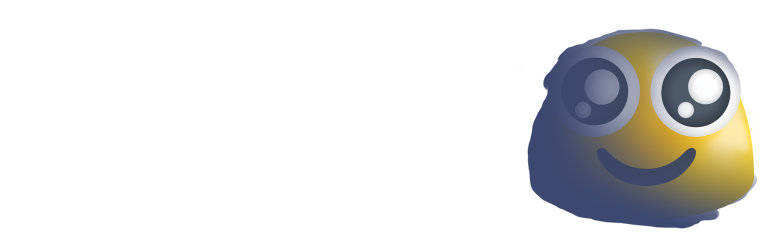
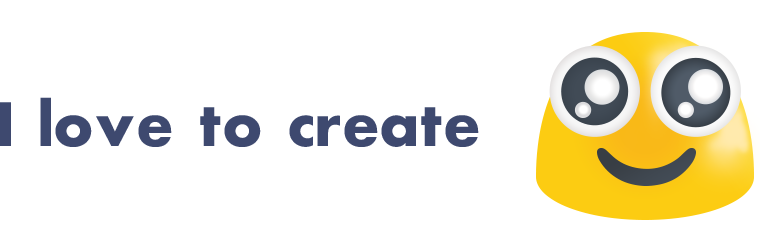
changed color

Changed region(s): [[0.6961, 0.112, 0.9987, 0.924], [0.0, 0.392, 0.6355, 0.588]]

diff --git a/src/scss/base.scss b/src/scss/base.scss
@@ -109,8 +109,10 @@ background-color: rgba(255, 255, 255, .3);
 .contents {
   // background: #43465a;
   margin-top: $global-margin / 2;
-  background: rgba($primary-color, 1);
-  color: rgba($color: #ffffff, $alpha: 1);
+  // background: rgba($primary-color, 1);
+  background: #fff;
+  color: $primary-color;
+  // color: rgba($color: #ffffff, $alpha: 1);
   position: fixed;
   left: 0;
   line-height: 2rem;
@@ -148,13 +150,13 @@ background-color: rgba(255, 255, 255, .3);
     position: absolute;
     -webkit-transform: translateX(0);
     transform: translateX(0);
-    bottom: 70px;
+    bottom: 80px;
     right: 0px;
     font-size: .7rem;
     writing-mode: vertical-rl;
-    padding: 25px 5px;
-    background: #fff;
-    color: #43465a;
+    padding: 35px 10px;
+    background: $primary-color;
+    color: #fff;
     cursor: pointer;
   }
   // paragraph
@@ -173,6 +175,7 @@ background-color: rgba(255, 255, 255, .3);
     li {
       background: url(../images/list_box.png) no-repeat;
       float: left;
+      color: #fff;
       font-size: .7rem;
       text-align: center;
       line-height: 1.4rem;
@@ -224,17 +227,17 @@ background-color: rgba(255, 255, 255, .3);
   &:before {
     font-family: 'Sanchez', serif;
     font-size: 1rem;
-    color: rgba($color: #fff, $alpha: .1);
+    color: rgba($color: $primary-color, $alpha: .1);
     line-height: 1.6rem;
     content: '\201C';
     position: absolute;
     top: 0.25em;
     left: 0.15em;
     font-size: 5em;
-   }
+  }
   &:after {
     font-family: 'Sanchez', serif;
-    color: rgba($color: #fff, $alpha: .1);
+    color: rgba($color: $primary-color, $alpha: .1);
     content: '\201D';
     position: absolute;
     bottom: -15px;
@@ -244,9 +247,8 @@ background-color: rgba(255, 255, 255, .3);
   }
   footer {
     margin-top: 15px;
-    font-family: 'Noto Sans', sans-serif;
-    font-size: .8em;
-    font-weight: 700;
+    font-size: .8rem;
+    font-style: italic;
   }
 }
 
@@ -294,5 +296,12 @@ _::-webkit-full-page-media, _:future, :root .back-btn {
   }
   .contents__inner{
       padding: 80px $sm-global-padding;
-  } 
+  }
+  .contents {
+    .back-btn {
+      bottom: 80px;
+      font-size: .7rem;
+      padding: 25px 5px;
+    }
+  }
 }

diff --git a/src/components/Particle.js b/src/components/Particle.js
@@ -170,12 +170,14 @@ function setImagePosition(image, canvas, index) {
       const num = 4 * (image.width * y + x) + 3;
       const alpha = imageData[num];
       if (alpha !== 0) {
-        const rRate = x / image.width * 1.5;
+        const rRate = x / image.width * 1.1;
+        // const rRate = x / image.width * 1.5;
         // const gRate = y / image.height * .9;
         const color = new THREE.Color();
         // color.setRGB(rRate, gRate, 1);
         // color.setRGB(rRate, .8, .85);
-        color.setRGB(.1, .8, .95);
+        // color.setRGB(.2, .7, 1); #暫定
+        color.setRGB(.2, .7, 1);
         const data = {
           x: (x - image.width / 2) / scale,
           y: (y - image.height / 2) / scale,

diff --git a/src/components/ContentWrapper.js b/src/components/ContentWrapper.js
@@ -12,9 +12,10 @@ export default function ContentWrapper({ contentTitle, children }) {
   const contentData = actions.getContentData(contentTitle);
   const { i18n } = useTranslation();
   const activeColor = variables.activeColor;
+  const primaryColor = variables.primaryColor;
 
   const springFunc = (index) => {
-    let color = "#ffffff";
+    let color = "#aaaaaa";
     if (lang && lang === languages[index].id) {
       color = activeColor;
     }

diff --git a/src/scss/_variables.scss b/src/scss/_variables.scss
@@ -9,7 +9,7 @@ $sm-global-padding: $sm-global-margin;
 // $primary-color: #363b4e;
 $primary-color: #3d4870;
 $small-margin: 5px;
-$active-color:#3e99e3;
+$active-color:#2a7be0;
 
 :export {
   primaryColor: $primary-color;
